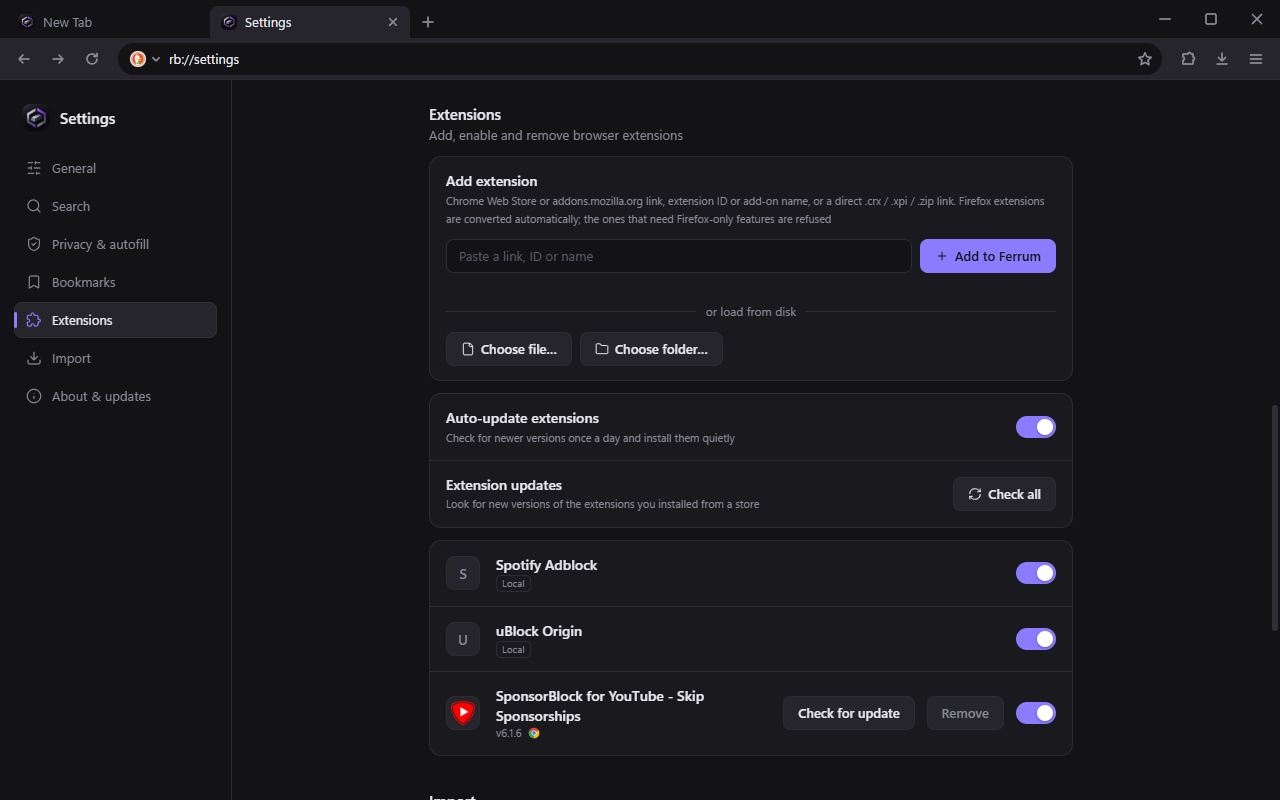
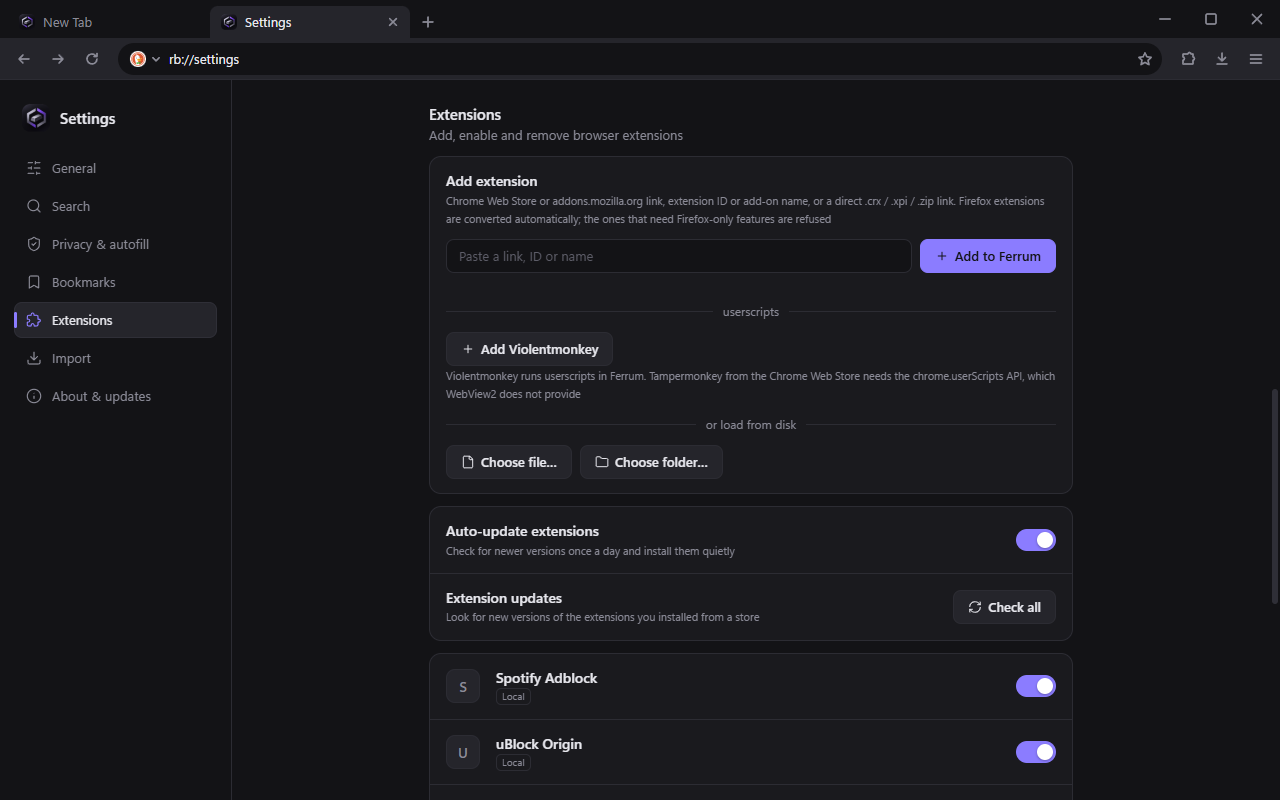
Ferrum 1.0.1
- Focus mode: the toolbar can be revealed while a page is fullscreen
- Firefox add-ons with a non-persistent background page install
- Settings > Extensions: Add Violentmonkey button for userscripts

diff --git a/ui/settings.html b/ui/settings.html
@@ -223,6 +223,9 @@ section>:nth-child(2){--i:1}section>:nth-child(3){--i:2}section>:nth-child(4){--
 <div class=card><div class="row pad"><b>Add extension</b><small>Chrome Web Store or addons.mozilla.org link, extension ID or add-on name, or a direct .crx / .xpi / .zip link. Firefox extensions are converted automatically; the ones that need Firefox-only features are refused</small>
 <form class=add id=xform><input id=xin placeholder="Paste a link, ID or name" autocomplete=off spellcheck=false aria-label="Extension link, ID or name"><button class="chip pri" id=xgo><svg><use href=#i-pl /></svg>Add to Ferrum</button></form>
 <div class=prog id=xprog aria-hidden=true><i></i></div>
+<div class=or>userscripts</div>
+<div class=add><button type=button class=chip id=xvm><svg><use href=#i-pl /></svg>Add Violentmonkey</button></div>
+<small>Violentmonkey runs userscripts in Ferrum. Tampermonkey from the Chrome Web Store needs the chrome.userScripts API, which WebView2 does not provide</small>
 <div class=or>or load from disk</div>
 <div class=add><button type=button class=chip id=xfile><svg><use href=#i-fl /></svg>Choose file…</button><button type=button class=chip id=xdir><svg><use href=#i-fd /></svg>Choose folder…</button></div>
 <small id=xst role=status aria-live=polite></small></div></div>
@@ -288,6 +291,7 @@ $("exts").onclick=e=>{
  const i=t.dataset.e;if(i===undefined)return;const x=X[i];x.on=!x.on;send({c:"ext_set",id:x.id,on:x.on});t.classList.toggle("on",!!x.on);t.setAttribute("aria-checked",!!x.on);toast()};
 $("exts").onkeydown=e=>{if(e.target.dataset.e!==undefined)keyClick(e)};
 const xbusy=b=>{["xin","xgo","xfile","xdir"].forEach(i=>$(i).disabled=b);$("xprog").classList.toggle("on",b)};
+$("xvm").onclick=()=>send({c:"ext_add",q:"violentmonkey"});
 $("xform").onsubmit=e=>{e.preventDefault();if($("xin").value.trim())send({c:"ext_add",q:$("xin").value})};
 $("xfile").onclick=()=>send({c:"ext_add",pick:"file"});
 $("xdir").onclick=()=>send({c:"ext_add",pick:"folder"});

diff --git a/src/extinstall.rs b/src/extinstall.rs
@@ -401,6 +401,9 @@ fn keep_v2(o: &mut Map<String, Value>, mut notes: Vec<String>, firefox: bool) ->
             a.remove("default_icon");
         }
     }
+    if let Some(b) = o.get_mut("background").and_then(Value::as_object_mut).filter(|b| b.get("persistent") == Some(&json!(false))) {
+        b.remove("persistent");
+    }
     if firefox {
         polyfill_content(o);
         if let Some(Value::Array(s)) = o.get_mut("background").and_then(|b| b.get_mut("scripts")) {
@@ -968,6 +971,9 @@ mod tests {
         assert!(p.mv2 && blocking["manifest_version"] == 2);
         let mut hard = json!({"manifest_version": 2, "permissions": ["webRequestBlocking", "contextualIdentities"]});
         assert!(convert(&mut hard).unwrap_err().contains("contextualIdentities"));
+        let mut event_page = json!({"manifest_version": 2, "permissions": ["webRequest", "webRequestBlocking"], "background": {"page": "bg.html", "persistent": false}});
+        convert(&mut event_page).unwrap().unwrap();
+        assert_eq!(event_page["background"], json!({"page": "bg.html"}));
         let mut page = json!({"manifest_version": 2, "background": {"page": "bg.html"}});
         let p = convert(&mut page).unwrap().unwrap();
         assert_eq!(p.bg_page.as_deref(), Some("bg.html"));

diff --git a/src/main.rs b/src/main.rs
@@ -365,7 +365,7 @@ impl Browser {
     }
 
     fn reveal(&mut self) {
-        if self.fs.on && !self.fs.page {
+        if self.fs.on {
             self.fs.to = true;
             self.fs.leave = Some(Instant::now() + Duration::from_millis(600));
             if self.fs.p == 0.0 {
@@ -394,7 +394,7 @@ impl Browser {
 
     fn fs_tick(&mut self) {
         self.fs.next = None;
-        if !self.fs.on || self.fs.page {
+        if !self.fs.on {
             return;
         }
         let now = Instant::now();

diff --git a/README.md b/README.md
@@ -13,6 +13,7 @@ Ferrum is Windows only. It does not ship its own rendering engine: pages are ren
 - **Bookmarks** with nested folders, a cascading folder popup in the bookmarks bar, search and drag and drop; **import and export as JSON, HTML or CSV**
 - **Import from other browsers** (Chromium and Firefox based): bookmarks, history, cookies and extensions, merged without duplicates
 - **Extensions**: install Chrome extensions and Firefox add-ons (converted to Chromium extensions) from a store link, ID, name, `.crx`/`.xpi`/`.zip` or folder; one-click **Add to Ferrum** buttons on the Chrome Web Store and addons.mozilla.org; **automatic updates**
+- **Userscripts** through Violentmonkey (one-click button in Settings > Extensions)
 - **uBlock Origin, SponsorBlock and Spotify Adblock** are installed on first run (downloaded then, not bundled in the exe)
 - **Downloads**: chunked parallel downloads with pause and resume, popup and page
 - **Focus mode** and borderless fullscreen: tabs and toolbar hide; they slide back in when you bring the pointer to the top edge
@@ -158,6 +159,7 @@ Caveats: the memory figure sums working sets, which counts pages shared between 
 - Firefox extension compatibility is partial: add-ons that need Firefox-only features are refused.
 - Manifest V2 extensions rely on WebView2 flags that Microsoft may remove in a future runtime.
 - WebView2 has no extension toolbar buttons; extension popups and options are opened from Ferrum's extensions popup.
+- Tampermonkey cannot run scripts: the Chrome Web Store build needs `chrome.userScripts`, which WebView2 does not expose, and the addons.mozilla.org build needs Firefox-only APIs. Use Violentmonkey.
 - Windows only.
 - No license has been chosen for this repository yet, so by default all rights are reserved.
 

diff --git a/CHANGELOG.md b/CHANGELOG.md
@@ -1,5 +1,17 @@
 # Changelog
 
+## 1.0.1
+
+### Fixed
+- **Focus mode with a fullscreen page** (for example a fullscreen video): moving the pointer to the top edge, or focusing the address bar, now brings back the tabs and toolbar. They previously stayed hidden until fullscreen ended.
+- **Firefox add-ons with a non-persistent background page** (`"persistent": false`) were rejected with "The browser rejected the extension: Class not registered". They are now converted so the browser accepts them.
+
+### Added
+- **Add Violentmonkey** button under Settings > Extensions > userscripts. Violentmonkey installs from addons.mozilla.org and runs userscripts; checked by installing a script and loading a page it matches.
+
+### Known limitations
+- **Tampermonkey does not run scripts in Ferrum.** The Chrome Web Store build is Manifest V3 and needs `chrome.userScripts`, which WebView2 leaves undefined even with the `userScripts` permission granted. The addons.mozilla.org build is refused (it needs Firefox container tabs) and relies on Firefox's own `userScripts` API. Use Violentmonkey.
+
 ## 1.0.0
 
 First public release. Ferrum is a lightweight Windows browser: a Rust shell around the system WebView2 (Chromium) runtime, with the browser UI written as plain HTML.
